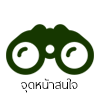
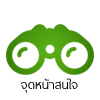
v3.1.2
update icon / menu

Changed region(s): [[0.06, 0.24, 0.96, 0.75], [0.21, 0.78, 0.78, 0.93]]

diff --git a/phonegap/inthanonapp/www/menu.html b/phonegap/inthanonapp/www/menu.html
@@ -5,9 +5,7 @@
 		<meta name="viewport" content="width=device-width, initial-scale=1, shrink-to-fit=no">
 		<!-- META -->
 		<title>Intanon Project | menu</title>
-
 		<!-- FontAwesome -->
-
 		<!-- Bootstrap core CSS -->
 		<link href="assets/css/bootstrap.css" rel="stylesheet">
 		<!-- Custom styles for this template -->
@@ -16,11 +14,10 @@
 		<!--  ======= BEGIN SCRIPT THIS PAGE ONLY ======== -->
 		<link rel="stylesheet" href="assets/css/fontthai.css">
 		<link rel="stylesheet" href="assets/css/animations.css" type="text/css">
-
 		<link href="assets/css/aboutus.css" rel="stylesheet">
 		<link href="assets/css/inthanon.css" rel="stylesheet">
-	
-       
+		
+		
 		<!--  ======= END SCRIPT THIS PAGE ONLY ======== -->
 	</head>
 	<body  background ="assets/img-landingpage1/bg-subpage.jpg" onload="background();">
@@ -78,30 +75,31 @@
 			<div class="content-zone bg-">
 				<section class="my-5 ">
 					<div class="container ">
-
 						<div class="row animatedParent " data-sequence='500'>
 							<!-- BEGIN CONTENT -->
 							<div class="col-6 col-sm-6 col-md-6 text-center ab-icon-zone animated fadeIn mb-2" data-id='1'>
-								<a href="waterfall.html"><img src="assets/icon-landpage-2/icon-green_0000_waterfall.png" alt="น้ำตก"  class="img-fluid rounded"></a>
-							<br>
+								<a href="waterfall.html " class="btn btn-block btn-white-trans menu-shadow
+								"><img src="assets/icon-landpage-2/icon-green_0000_waterfall.png" alt="น้ำตก"  class="img-fluid "></a>
 							</div>
-
 							<div class="col-6 col-sm-6 col-md-6 text-center ab-icon-zone animated fadeIn mb-2" data-id='1'>
-								<a href="nature.html"><img src="assets/icon-landpage-2/icon-green_0001_nature.png" alt="เส้นทางศึกษาธรรมชาติ" class="img-fluid rounded"></a>
-							<br>
-							</div>
-
-							<div class="col-6 col-sm-6 col-md-6 text-center ab-icon-zone animated fadeIn mb-2" data-id='2'>
-								<a href="doi-inthanon.html"><img src="assets/icon-landpage-2/icon-green_0002_doi.png" alt="ภูเขา" class="img-fluid rounded"></a>
+								<a href="nature.html" class="btn btn-block btn-white-trans menu-shadow
+								"><img src="assets/icon-landpage-2/icon-green_0001_nature.png" alt="เส้นทางศึกษาธรรมชาติ" class="img-fluid rounded"></a>
 							</div>
 							<div class="col-6 col-sm-6 col-md-6 text-center ab-icon-zone animated fadeIn mb-2" data-id='2'>
-								<a href="inthanon-slipper.html"><img src="assets/icon-landpage-2/icon-green_0003_point.png" alt="จุดหน้าสนใจ" class="img-fluid rounded"></a>
+								<a href="doi-inthanon.html" class="btn btn-block btn-white-trans menu-shadow
+								"><img src="assets/icon-landpage-2/icon-green_0002_doi.png" alt="ภูเขา" class="img-fluid "></a>
+							</div>
+							<div class="col-6 col-sm-6 col-md-6 text-center ab-icon-zone animated fadeIn mb-2" data-id='2'>
+								<a href="inthanon-slipper.html" class="btn btn-block btn-white-trans menu-shadow
+								"><img src="assets/icon-landpage-2/icon-green_0003_point.png" alt="จุดหน้าสนใจ" class="img-fluid "></a>
 							</div>
 							<div class="col-6 col-sm-6 col-md-6 text-center ab-icon-zone animated fadeIn mb-2" data-id='3'>
-								<a href="contact.html"><img src="assets/icon-landpage-2/icon-green_0004_contact.png" alt="ติดต่อ" class="img-fluid rounded"></a>
+								<a href="contact.html" class="btn btn-block btn-white-trans menu-shadow
+								"><img src="assets/icon-landpage-2/icon-green_0004_contact.png" alt="ติดต่อ" class="img-fluid "></a>
 							</div>
 							<div class="col-6 col-sm-6 col-md-6 text-center ab-icon-zone animated fadeIn mb-2" data-id='3'>
-								<a href="instruction.html"><img src="assets/icon-landpage-2/icon-green_0005_ins.png" alt="ข้อควรปฏิบัติ" class="img-fluid rounded"></a>
+								<a href="instruction.html" class="btn btn-block btn-white-trans menu-shadow
+								"><img src="assets/icon-landpage-2/icon-green_0005_ins.png" alt="ข้อควรปฏิบัติ" class="img-fluid "></a>
 							</div>
 							<!-- END CONTENT -->
 						</div>
@@ -109,12 +107,10 @@
 				</section>
 			</div>
 		</main>
-
 		<!-- ==============END FOOTER ================= -->
 		<!-- Bootstrap core JavaScript
 		================================================== -->
 		<!-- Placed at the end of the document so the pages load faster -->
-
 		<script>window.jQuery || document.write('<script src="assets/js/vendor/jquery-slim.min.js"><\/script>')</script>
 		<script src="assets/js/vendor/popper.min.js"></script>
 		<script src="assets/js/bootstrap.min.js"></script>
@@ -138,24 +134,19 @@
 					});
 				});
 		</script>
-
-<script type="text/javascript">
- function background(){
-    var BG = Math.floor(Math.random() * 4);
-//Math.random() creates random number. 
-//Math.floor() switches random number to its integer value.
-// "Math.random() * 4"  means a random number generates between 0 to 3.
-
-    if (BG == 0) {document.body.background = "assets/img-landingpage1/bg-subpage.jpg";}
-    else if (BG == 1) {document.body.background = "assets/img-landingpage1/bg-subpage2.jpg";}
-    else if (BG == 2) {document.body.background = "assets/img-landingpage1/bg-subpage2.jpg";}
-    else {document.body.background = "assets/img-landingpage1/bg-subpage2.jpg";}
-//If generated random integer is 0, image1.jpeg will be displayed for background image. It it is 1,  image2.jpeg will be displayed.... and so on.
-
-  }
-</script>
-
-
+		<script type="text/javascript">
+		function background(){
+		var BG = Math.floor(Math.random() * 4);
+		//Math.random() creates random number.
+		//Math.floor() switches random number to its integer value.
+		// "Math.random() * 4"  means a random number generates between 0 to 3.
+		if (BG == 0) {document.body.background = "assets/img-landingpage1/bg-subpage.jpg";}
+		else if (BG == 1) {document.body.background = "assets/img-landingpage1/bg-subpage2.jpg";}
+		else if (BG == 2) {document.body.background = "assets/img-landingpage1/bg-subpage2.jpg";}
+		else {document.body.background = "assets/img-landingpage1/bg-subpage2.jpg";}
+		//If generated random integer is 0, image1.jpeg will be displayed for background image. It it is 1,  image2.jpeg will be displayed.... and so on.
+		}
+		</script>
 		<!--  ======= END SCRIPT THIS PAGE ONLY ======== -->
 	</body>
 </html>

diff --git a/phonegap/inthanonapp/www/assets/css/inthanon.css b/phonegap/inthanonapp/www/assets/css/inthanon.css
@@ -15,6 +15,15 @@ p{
 	line-height: 1.3rem;
 }
 
+.menu-shadow{
+-webkit-box-shadow: 0px 10px 13px -7px #000000, 5px 5px 15px 5px rgba(0,0,0,0); 
+box-shadow: 0px 10px 13px -7px #000000, 5px 5px 15px 5px rgba(0,0,0,0);
+}
+
+.btn-white-trans{
+	background-color: rgba(255, 255, 255, 0.8);
+}
+
 body.menu-subpage{
 	/*background-image: url("../img-landingpage1/bg-subpage2.jpg");*/
 }
